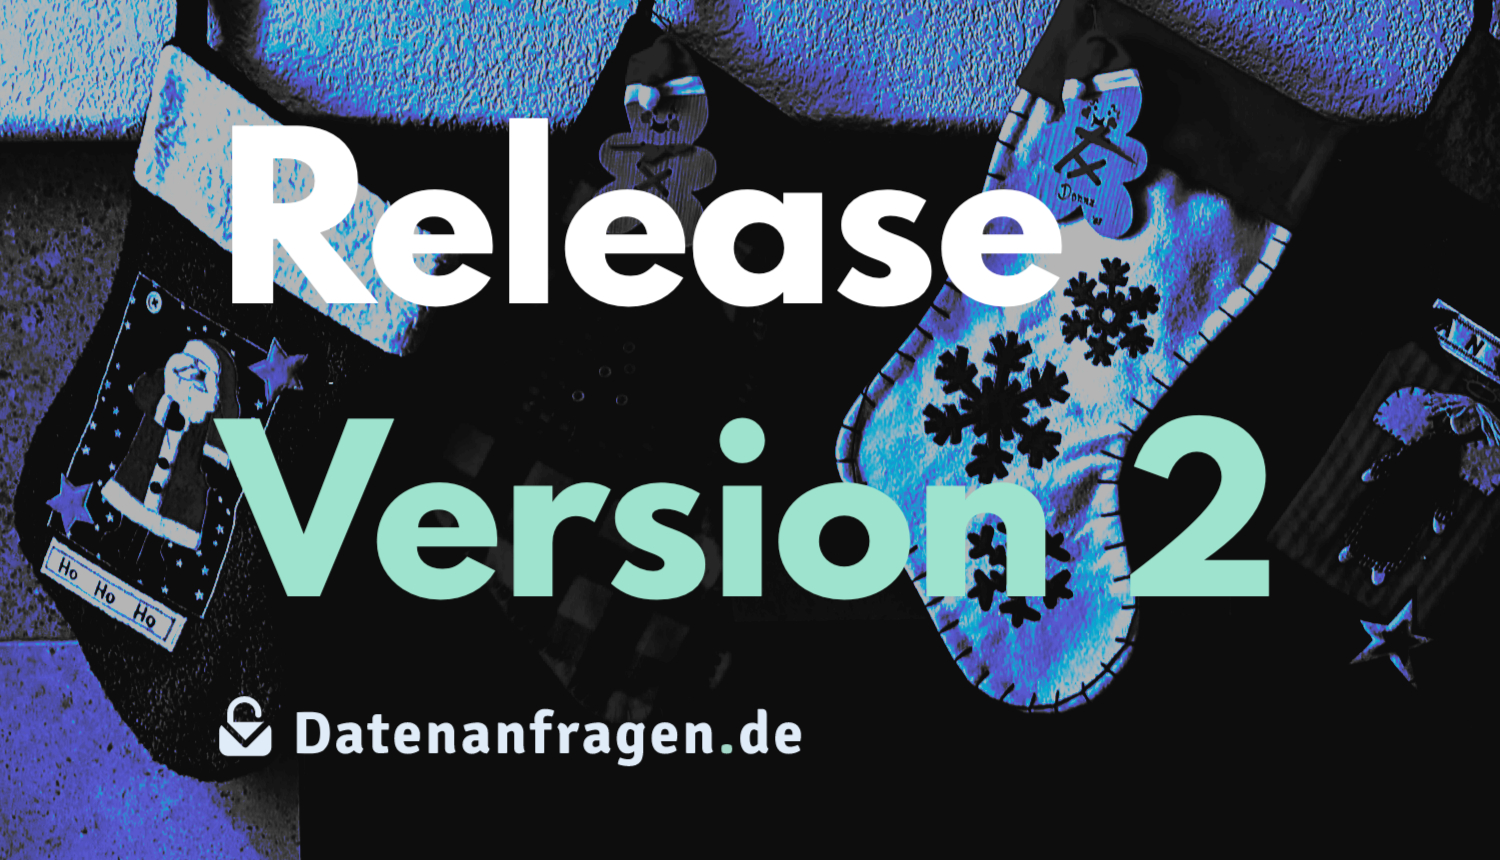
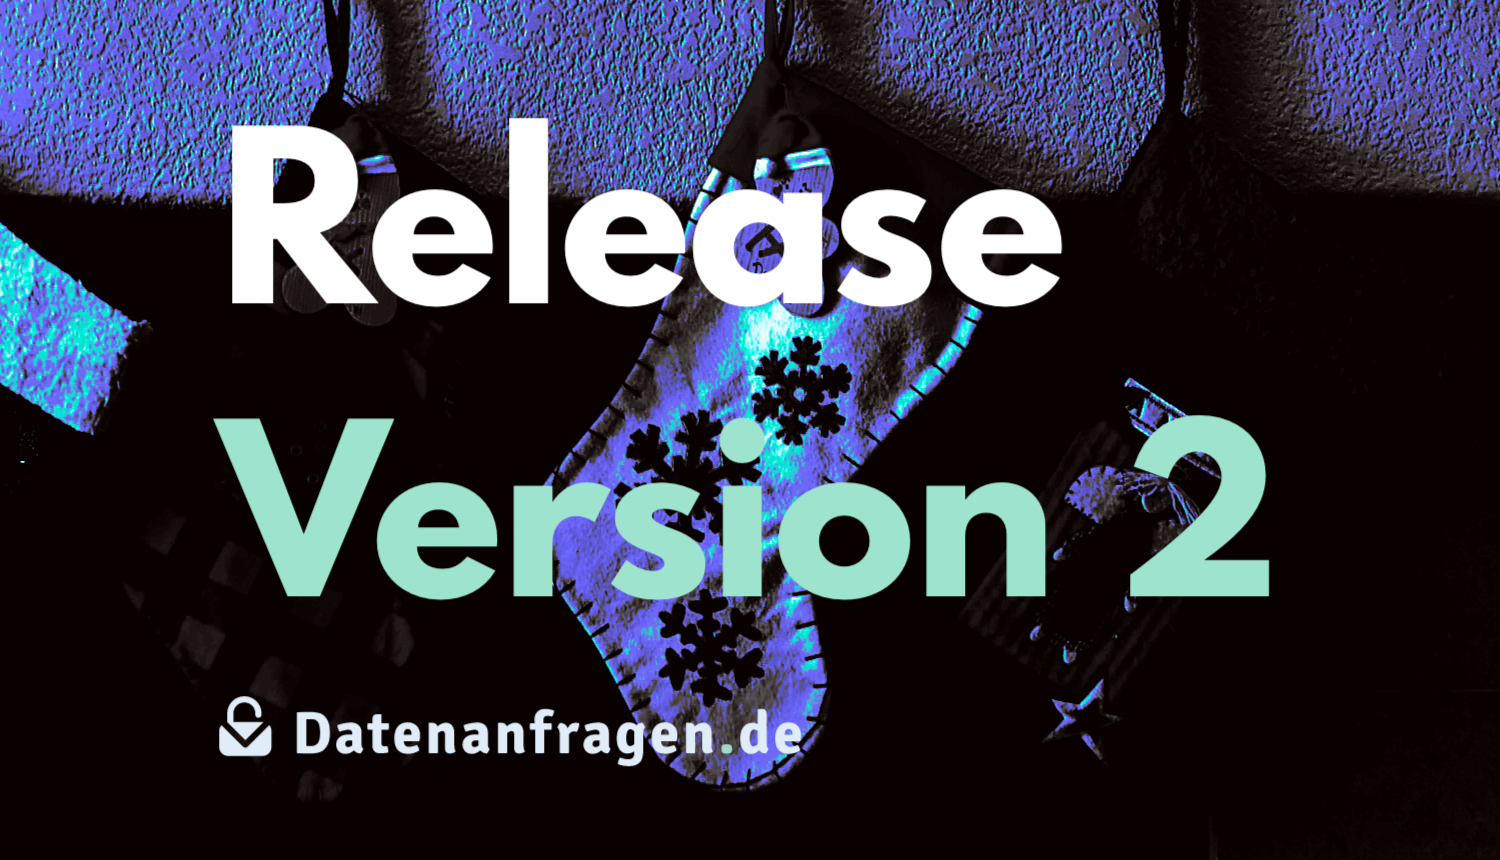
Implement suggestions from the review

diff --git a/content/de/blog/v2-release/index.md b/content/de/blog/v2-release/index.md
@@ -1,7 +1,7 @@
 {
     "title": "Datenanfragen.de 2.0: Nagelneue Oberfläche und Beschwerdegenerator",
     "type": "blog",
-    "date": "2022-12-07T12:00:00+02:00",
+    "date": "2022-12-07T17:00:00+02:00",
     "description": "Gestern haben wir die neue Version der Webseite mit vielen neuen Features veröffentlicht: Eine neue Oberfläche für den Anfragengenerator, eine umfangreichere Anfragenhistorie, eine schicke neue Startseite und ein Generator für Beschwerden und Mahnungen.",
     "featured_image": "stockings-feature",
     "tags": [ "Beschwerdegenerator", "Neue Oberfläche", "Update", "Open Source" ],
@@ -9,6 +9,8 @@
 }
 
 Gestern haben wir Euch etwas ganz Besonderes in den Nikolausstiefel getan: Das neue Release von unserer Webseite mit vielen tollen neuen Features! Wir haben in den letzten Monaten viel Zeit damit verbracht, die Nutzer_innenoberfläche zu updaten und haben uns viel Mühe gegeben es so einfach und barrierearm wie möglich zu machen, Anfragen an Unternehmen und andere Datenverantwortliche zu schicken. Dank des [Prototype Fund](https://prototypefund.de/), der von der [Open Knowledge Foundation Deutschland](https://okfn.de/) betreut und vom [Bundesministerium für Bildung und Forschung](https://bmbf.de) finanziert wird, und Lorenz und Benni gefördert hat, konnten wir mehr Zeit als üblich in dieses Release stecken (mehr dazu auf unserer {{< link slug="verein/transparency#12-externe-f%c3%b6rdermittel-die-mitglieder-erhalten-haben" text="Transparenzseite" >}}). Jetzt sind wir sehr aufgeregt und stolz, Euch alle neuen Features vorstellen zu können. Wenn Du einen Blick auf den Code werfen möchtest, kannst Du [alle Änderungen auf GitHub finden](https://github.com/datenanfragen/website/pull/921).
+
+{{< featuredImg alt="Foto von Weihnachtssocken, die vor einem Kamin hängen, darüber der Text: „Release Version 2“" >}}
 
 ## Mehrseitiger Anfragengenerator
 

diff --git a/content/en/blog/v2-release/index.md b/content/en/blog/v2-release/index.md
@@ -1,7 +1,7 @@
 {
     "title": "datarequests.org v2: Refreshed interface and complaint generator",
     "type": "blog",
-    "date": "2022-12-07T12:00:00+02:00",
+    "date": "2022-12-07T17:00:00+02:00",
     "description": "Yesterday, we released the next version of our website with many improvements: A new interface for the request generator, more comprehensive request history, a fancy new homepage and a generator for complaints and admonitions.",
     "featured_image": "stockings-feature",
     "tags": [ "complaint generator", "new user experience", "update", "open source" ],
@@ -9,6 +9,8 @@
 }
 
 In an old Christian tradition, German children get presents and candy in their shoes on the morning of the 6th of December. Yesterday, we put something else into your shoes: The new release of our websites with many great new features! We spent a lot of time in the last few months to update the user interface and took great care to make it as easy and accessible as possible to send requests to companies and other data controllers. Thanks to the [Prototype Fund](https://prototypefund.de/en/) run by the [Open Knowledge Foundation Germany](https://okfn.de/en/) and funded by the [German Federal Ministry of Education and Research](https://www.bmbf.de/bmbf/en/home/home_node.html), who gave a grant to Lorenz and Benni, we were able to put more time than usual into this release (read more in our {{< link slug="verein/transparency#12-external-grants-that-members-have-received" text="transparency information" >}}). Now we are just really excited and proud to present you all the new features. If you want to take a look at the code, you can [find all changes on GitHub](https://github.com/datenanfragen/website/pull/921).
+
+{{< featuredImg alt="Picture of stockings on a fireplace, on it the text: „Release Version 2“" >}}
 
 ## Multi-page request generator
 
